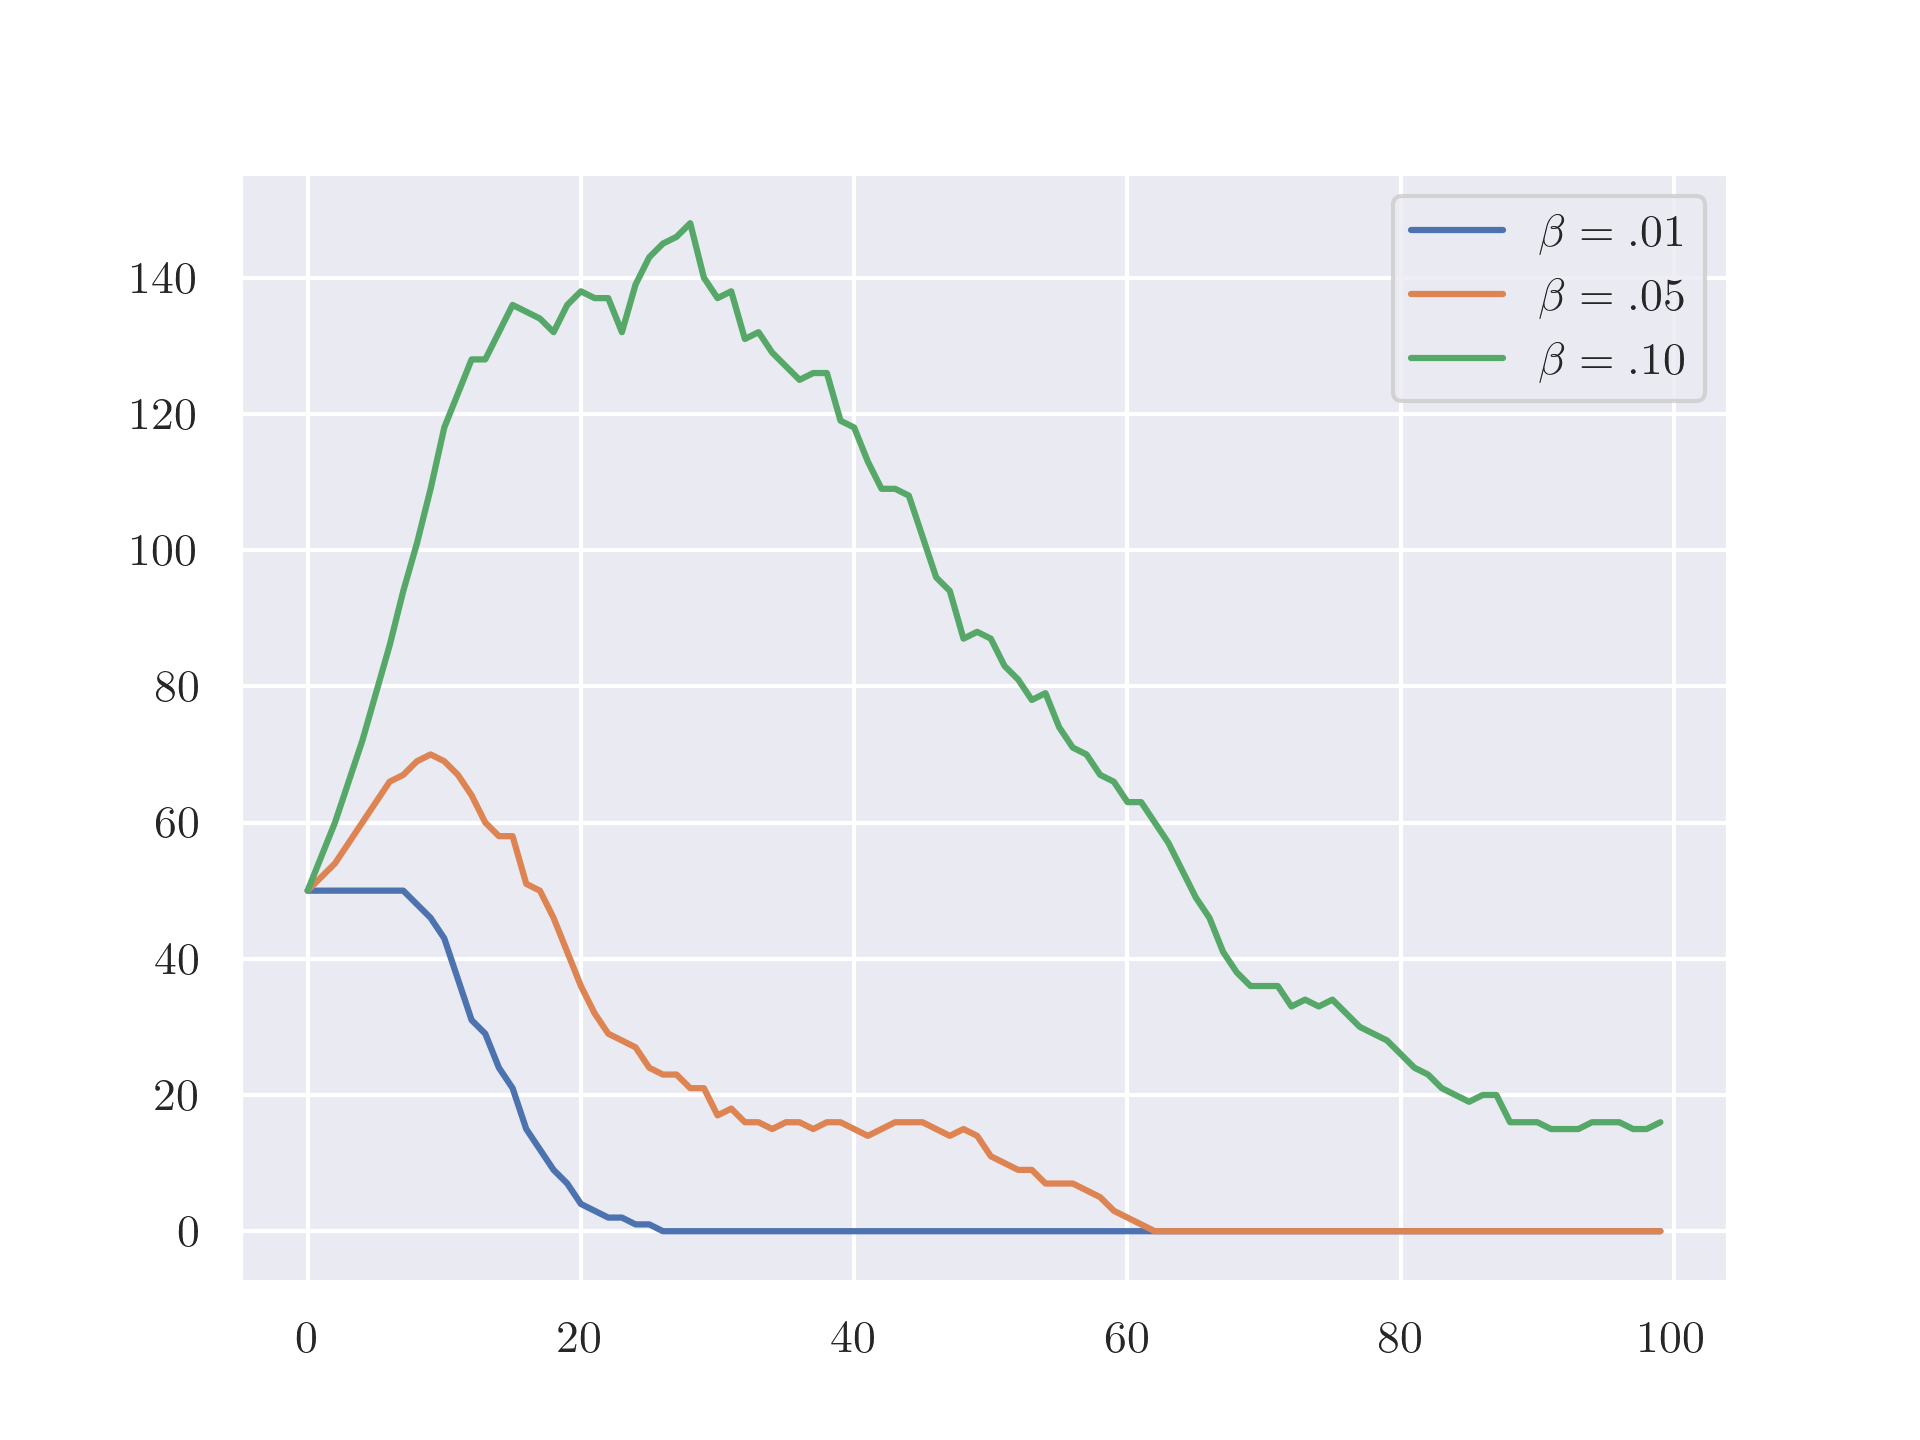
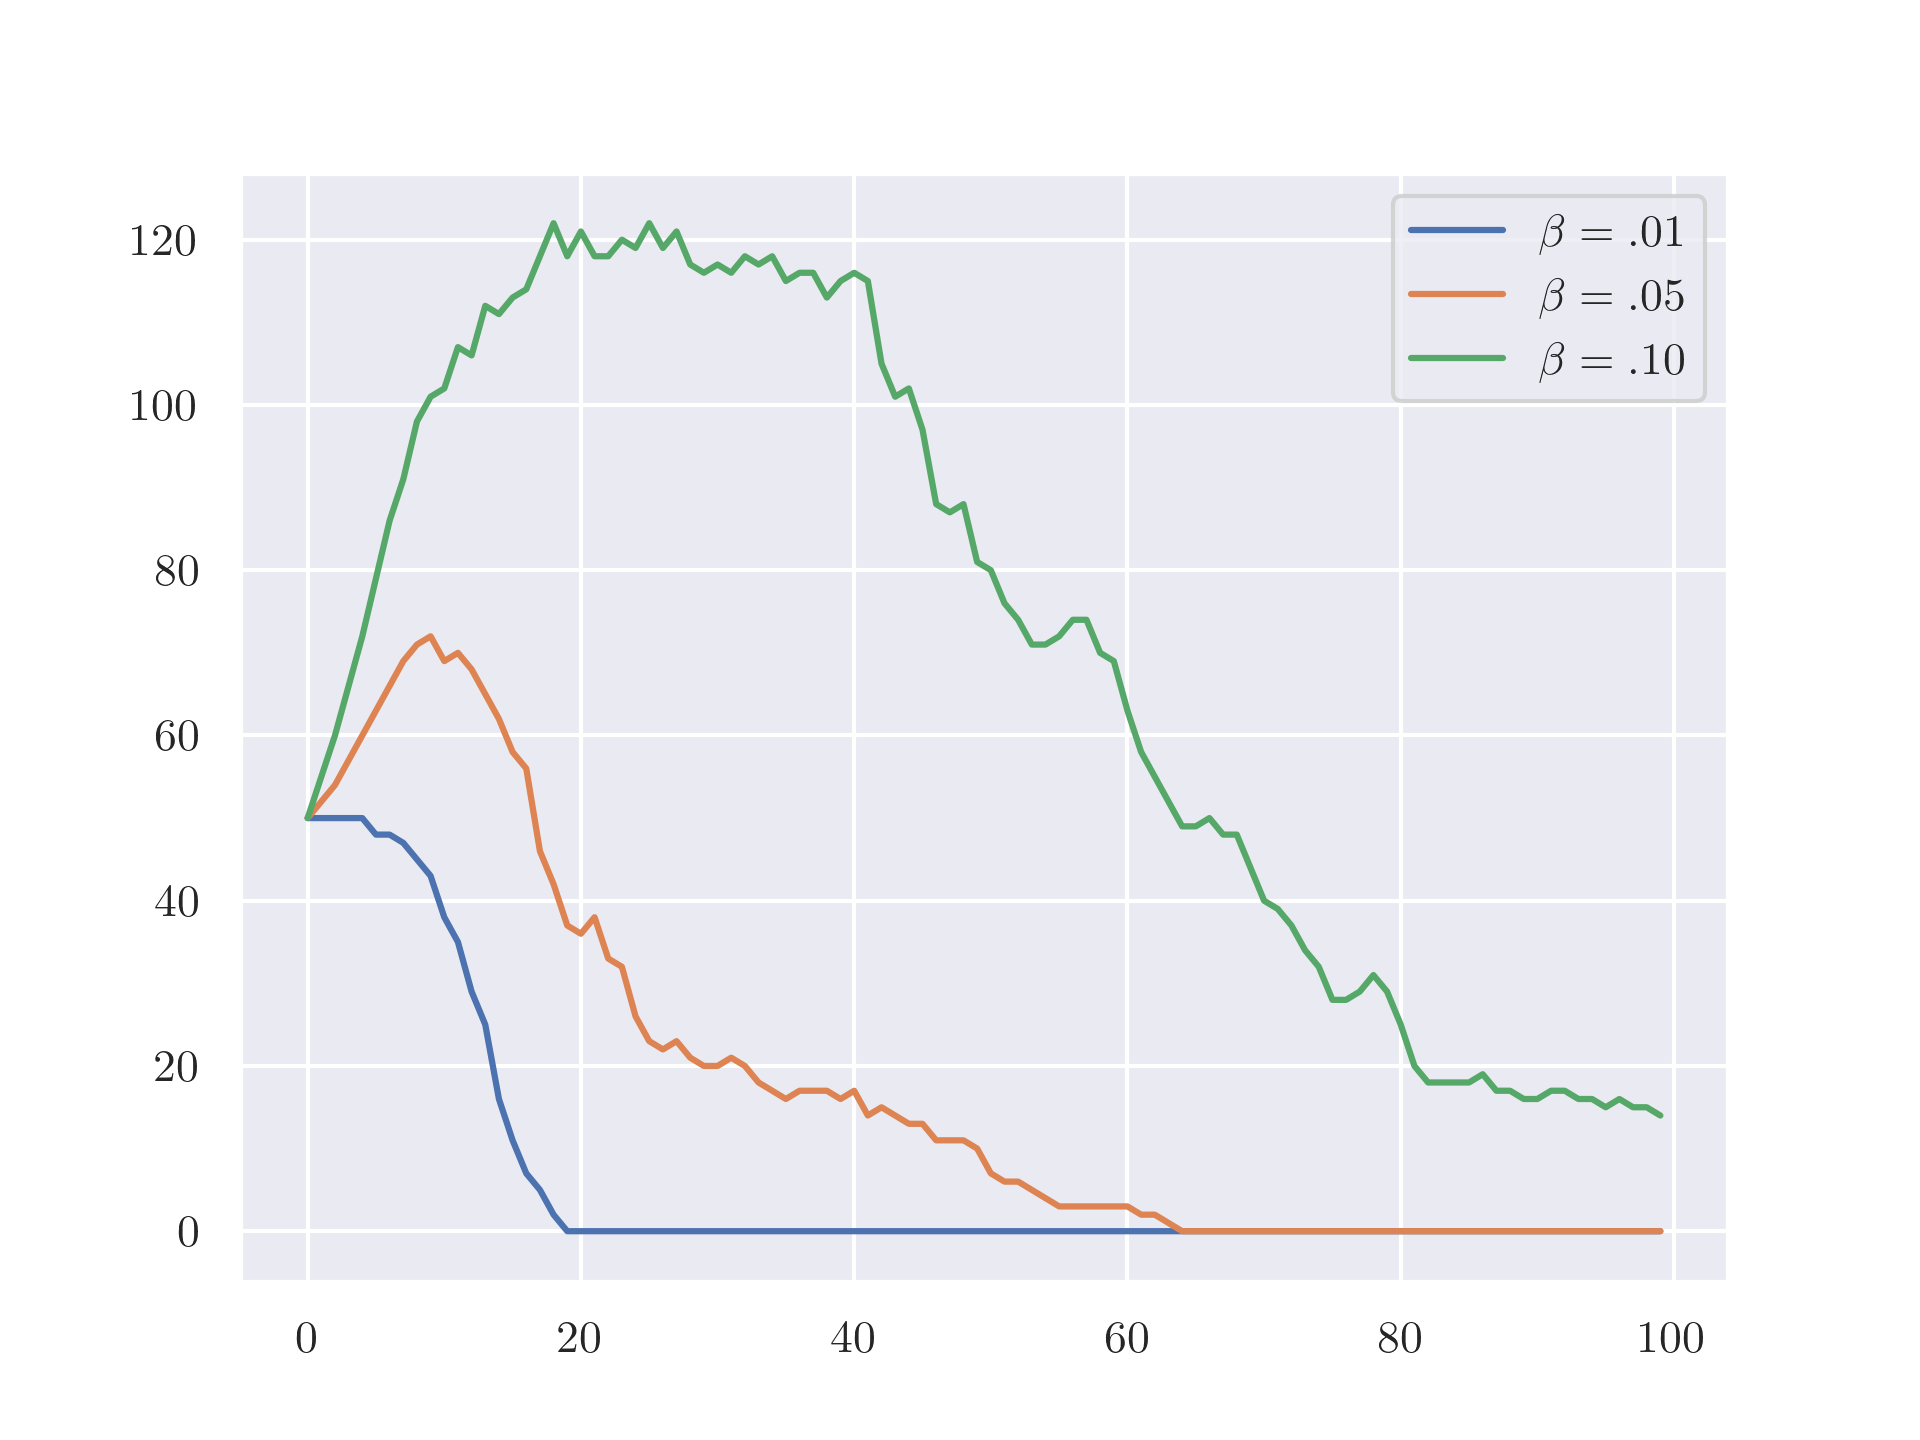
Prettified plots with axis limts

diff --git a/model.py b/model.py
@@ -112,6 +112,9 @@ class Model:
 
     def plot(self, fileName='result.png', openFile=True, title='Result'):
         # TODO: https://python-graph-gallery.com/251-stacked-area-chart-with-seaborn-style/
+        startTime = 0
+        endTime = max(self.Results['Time'])
+        self.Results['Time']
         if not self.HasModelRun:
             print('Error: Please call Model.run() before plotting.')
             return
@@ -126,9 +129,10 @@ class Model:
                       colors=['salmon', 'lightgreen'])
         plt.legend(bbox_to_anchor=(1.1, 1), loc='right',
                    ncol=1, fancybox=True, shadow=True)
-        plt.ylabel('Queue')
+        plt.ylabel('Queued')
         plt.title(title)
         # Remove x-tick
+        plt.xlim(startTime, endTime)
         plt.tick_params(
             axis='x',
             which='both',
@@ -145,6 +149,7 @@ class Model:
         plt.ylabel('Infected')
         plt.legend(bbox_to_anchor=(1.1, 1), loc='right',
                    ncol=1, fancybox=True, shadow=True)
+        plt.xlim(startTime, endTime)
         # Remove x-tick
         plt.tick_params(
             axis='x',
@@ -157,12 +162,14 @@ class Model:
         # TODO: Stacking plot
         plt.stackplot(self.Results['Time'],
                       [self.Results['Infected'], self.Results['Susceptible'],
-                       self.Results['Removed']], labels=['I', 'S', 'R'],
+                       self.Results['Removed']], labels=['Infected', 'Susceptible', 'Removed'],
                       colors=['salmon', 'lightgreen', 'dimgray'])
         plt.xlabel('Time')
-        plt.ylabel('Population')
+        plt.ylabel('SIR')
         plt.legend(bbox_to_anchor=(1.1, 1), loc='right',
                    ncol=1, fancybox=True, shadow=True)
+        plt.xlim(startTime, endTime)
+        plt.ylim(0, self.TotalIndividuals)
         plt.savefig(fileName, dpi=300)
         plt.close()
         if openFile:
